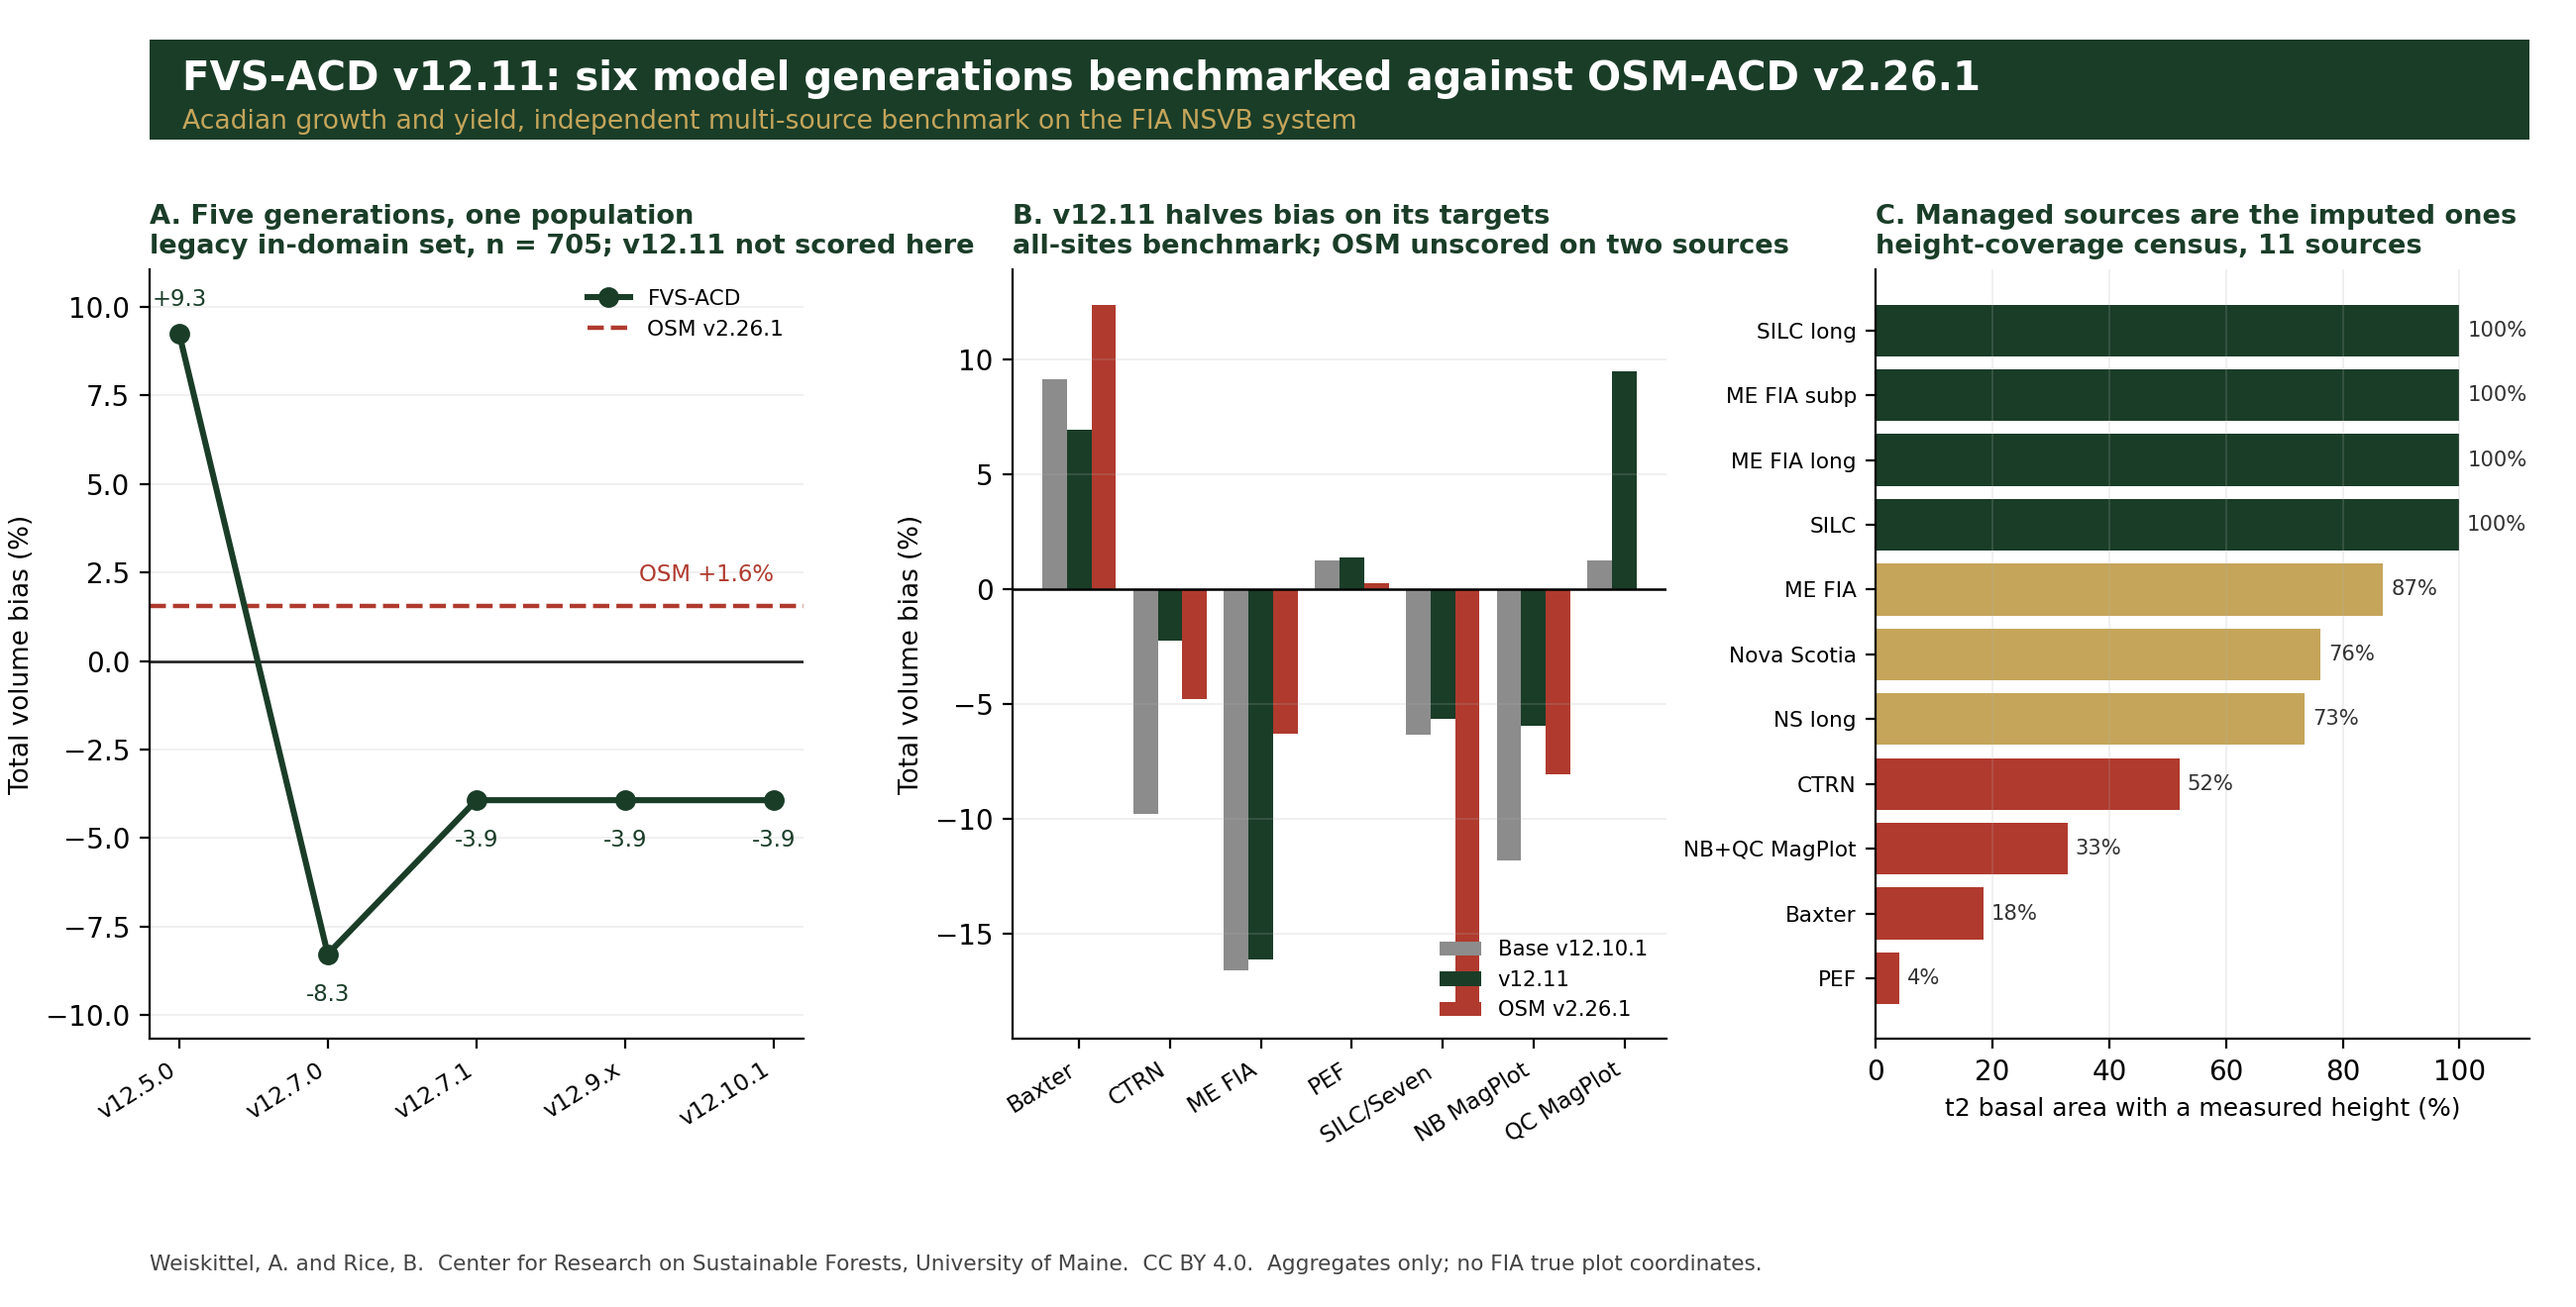
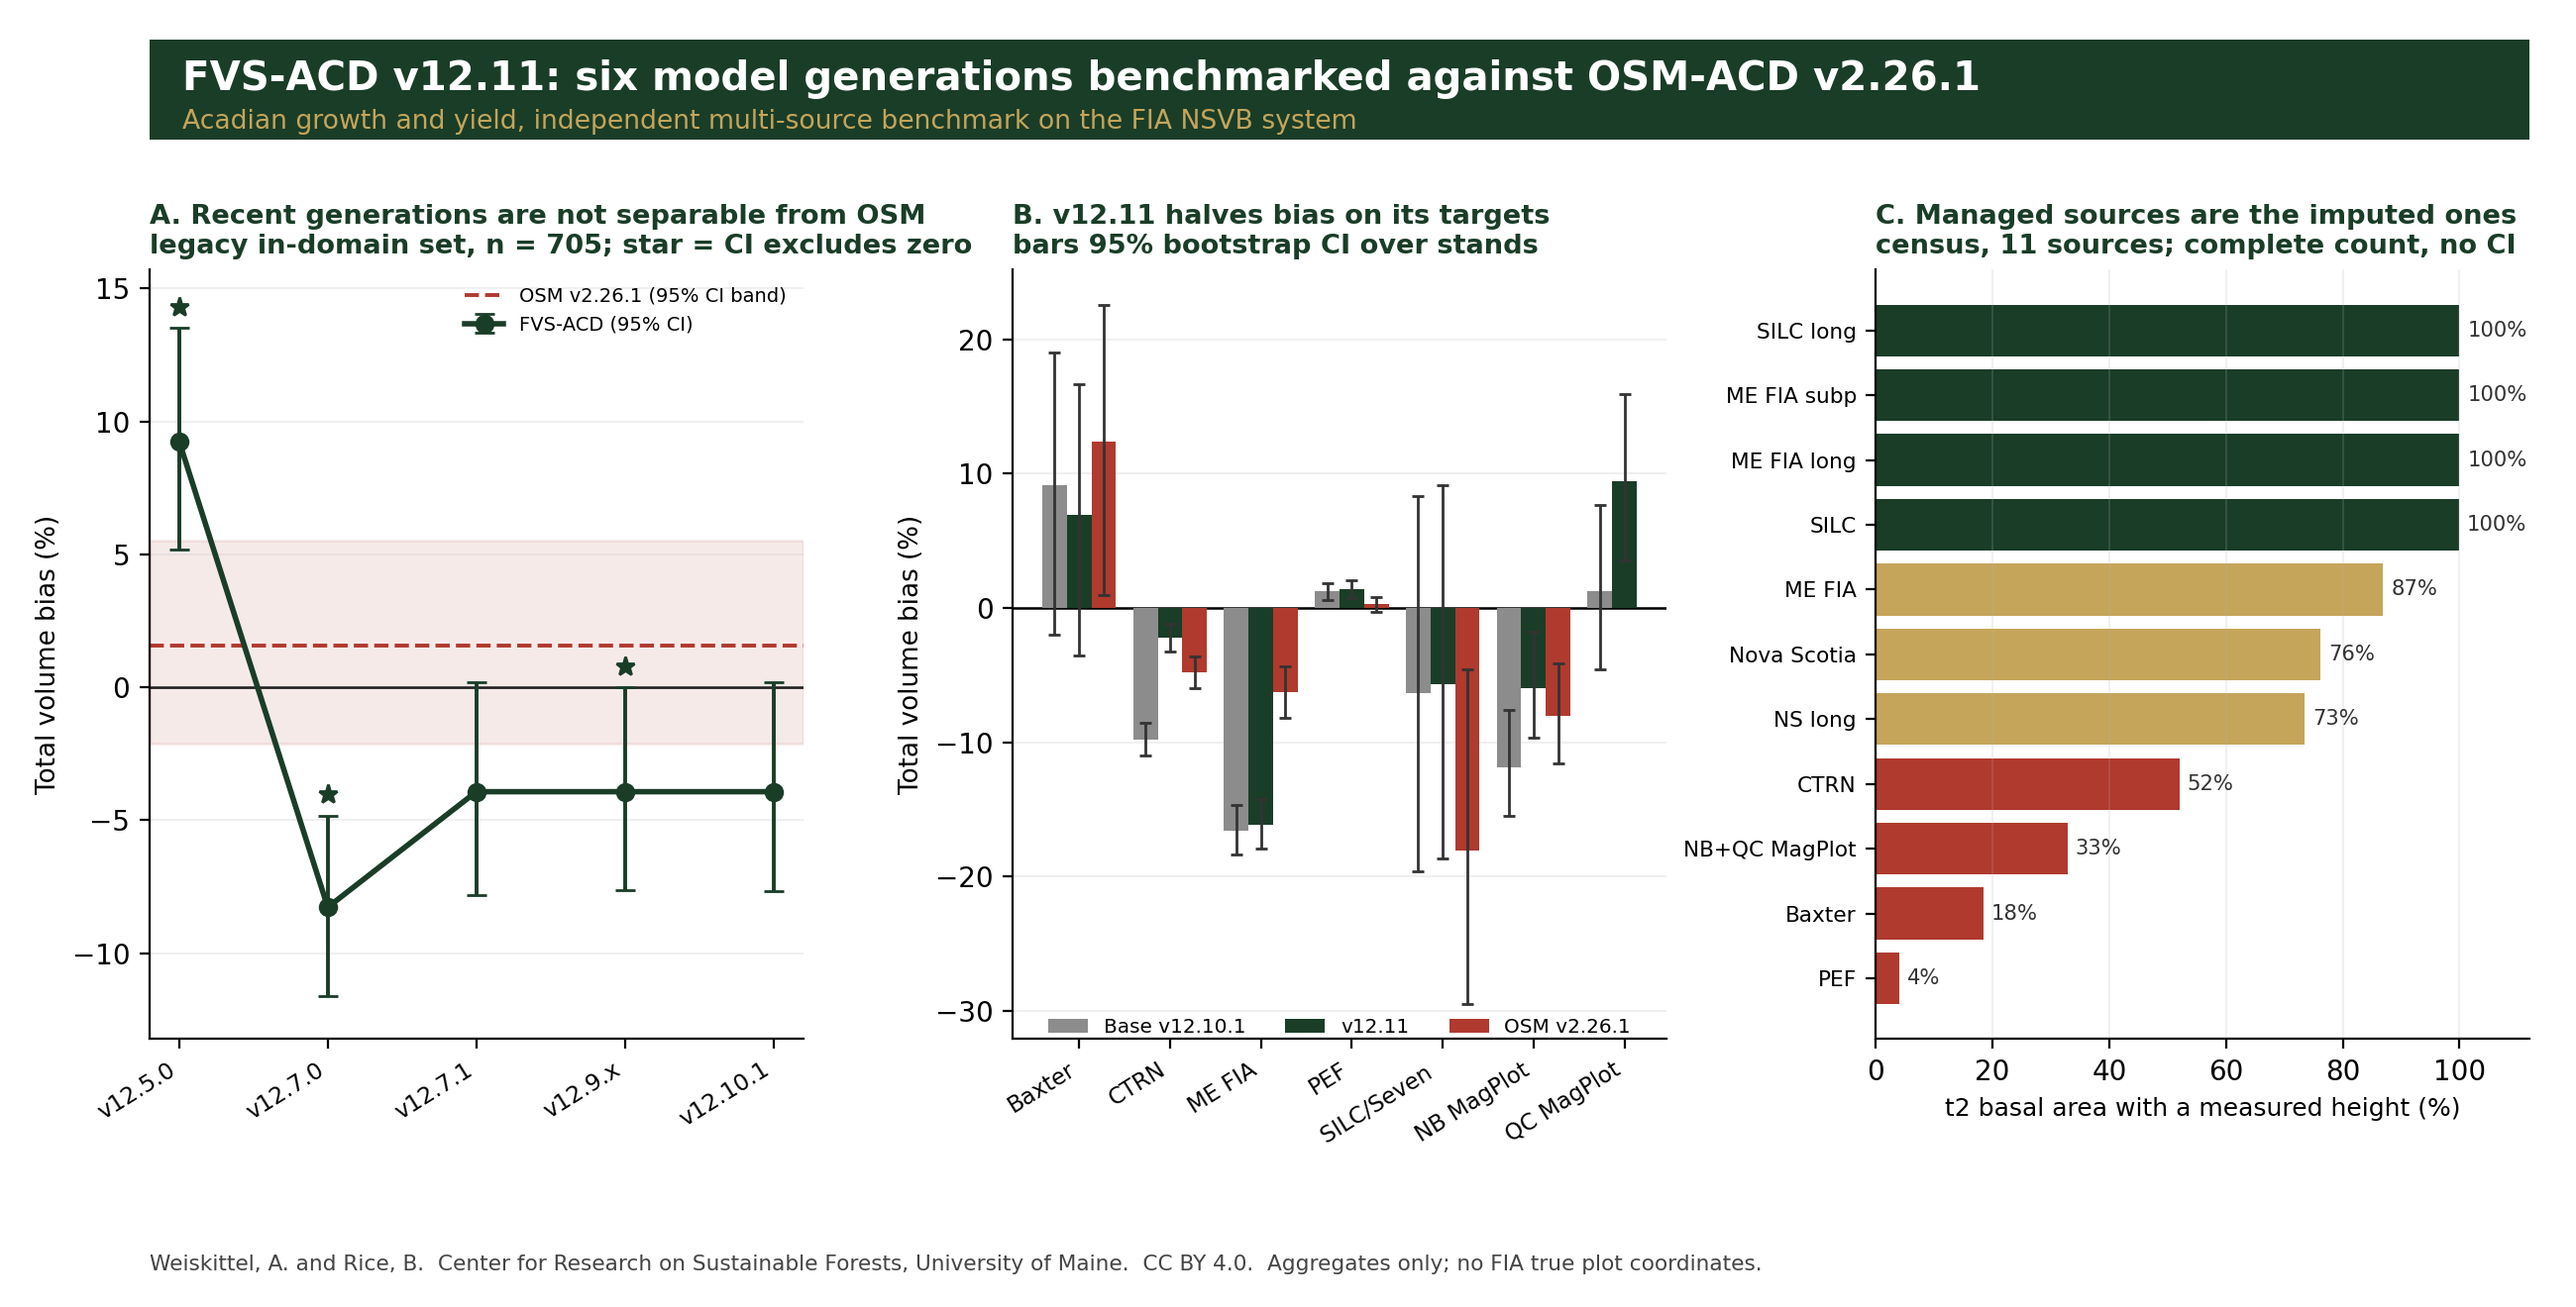
v12.11 benchmark: height-coverage census, rescores, and Zenodo deposit package

diff --git a/zenodo_v1211/build_graphical_abstract.py b/zenodo_v1211/build_graphical_abstract.py
@@ -7,6 +7,13 @@ comparison through v12.10.1, the all-sites benchmark carries v12.11, and the
 height-coverage census carries the integrity finding. Merging the first two
 would imply a single continuous series that was never scored as one.
 
+Uncertainty is shown where it exists and withheld where it does not. Panel A
+carries the 95 percent intervals already in the frozen scorecard. Panel B
+carries stand-level bootstrap intervals (allsites_bias_ci.csv); if that file is
+absent the panel degrades to bars and says so. Panel C is a complete
+enumeration of the staged tree lists, so it has no sampling uncertainty and
+gets no error bars; drawing them there would invent a quantity.
+
 Usage: build_graphical_abstract.py [--doi 10.5281/zenodo.XXXXXXX]
 """
 import argparse
@@ -55,22 +62,27 @@ order = ["v12.5.0", "v12.7.0", "v12.7.1", "v12.9.x", "v12.10.1"]
 vals = {x["model"]: float(x["bias_pct"]) for x in r}
 y = [vals[m] for m in order]
 osm = vals.get("OSM")
+lo = {x["model"]: float(x["bias_lo95"]) for x in r}
+hi = {x["model"]: float(x["bias_hi95"]) for x in r}
+ylo = [lo[m] for m in order]
+yhi = [hi[m] for m in order]
 ax.axhline(0, color="black", lw=0.9, zorder=1)
-ax.plot(range(len(order)), y, "-o", color=GREEN, lw=2.2, ms=6.5, zorder=3, label="FVS-ACD")
-ax.set_ylim(min(y) - 2.4, max(y) + 1.8)
 if osm is not None:
-    ax.axhline(osm, color=RED, lw=1.6, ls="--", zorder=2, label="OSM v2.26.1")
-    ax.text(len(order) - 1, osm + 0.55, "OSM %+.1f%%" % osm, color=RED,
-            fontsize=8.2, ha="right", va="bottom")
-for i, v in enumerate(y):
-    ax.annotate("%+.1f" % v, (i, v), textcoords="offset points",
-                xytext=(0, 10 if v >= 0 else -17), ha="center", fontsize=8.2, color=GREEN)
+    ax.axhspan(lo["OSM"], hi["OSM"], color=RED, alpha=0.10, zorder=0)
+    ax.axhline(osm, color=RED, lw=1.4, ls="--", zorder=2, label="OSM v2.26.1 (95% CI band)")
+ax.errorbar(range(len(order)), y, yerr=[np.array(y) - np.array(ylo), np.array(yhi) - np.array(y)],
+            fmt="-o", color=GREEN, lw=2.0, ms=6.0, capsize=3.5, elinewidth=1.4,
+            zorder=3, label="FVS-ACD (95% CI)")
+ax.set_ylim(min(ylo) - 1.6, max(yhi) + 2.2)
+for i, m in enumerate(order):
+    if lo[m] * hi[m] > 0:
+        ax.plot(i, yhi[i] + 0.8, marker="*", color=GREEN, ms=7, zorder=4)
 ax.set_xticks(range(len(order)))
 ax.set_xticklabels(order, rotation=32, ha="right", fontsize=8.4)
 ax.set_ylabel("Total volume bias (%)", fontsize=9.4)
-ax.set_title("A. Five generations, one population\nlegacy in-domain set, n = 705; v12.11 not scored here",
+ax.set_title("A. Recent generations are not separable from OSM\nlegacy in-domain set, n = 705; star = CI excludes zero",
              fontsize=9.8, loc="left", color=GREEN, fontweight="bold")
-ax.legend(fontsize=7.8, frameon=False, loc="upper right")
+ax.legend(fontsize=7.0, frameon=False, loc="upper right")
 ax.grid(axis="y", alpha=0.22, lw=0.6)
 for s in ("top", "right"):
     ax.spines[s].set_visible(False)
@@ -94,18 +106,62 @@ D = {}
 for x in r:
     D.setdefault(x["source"], {})[key.get(x["model"], x["model"])] = float(x["TOTVOL_bias_pct"])
 srcs = [s for s in srcs if "base" in D.get(s, {}) and "v1211" in D.get(s, {})]
+
+# Stand-level bootstrap intervals, if the Cardinal job has been run. The two
+# files spell three source names differently ("held-out" vs "held out", PEF vs
+# Penobscot Exp. Forest, SILC vs SILC/Seven Islands CFI), so join on a
+# normalized key rather than the raw string.
+def canon(name):
+    t = name.split("(")[0].strip().lower().replace("-", " ")
+    for k, v in (("baxter", "baxter"), ("ctrn", "ctrn"), ("maine fia", "mefia"),
+                 ("pef", "pef"), ("penobscot", "pef"), ("silc", "silc"),
+                 ("nb magplot", "nb"), ("qc magplot", "qc")):
+        if k in t:
+            return v
+    return t
+
+
+CI, has_ci = {}, False
+try:
+    for x in rows("allsites_bias_ci.csv"):
+        CI.setdefault(canon(x["source"]), {})[x["model"]] = (
+            float(x["bias_pct"]), float(x["bias_lo95"]), float(x["bias_hi95"]))
+    has_ci = True
+except (FileNotFoundError, KeyError):
+    pass
+
+
+def err(src, mdl):
+    """Asymmetric yerr for one bar, or nan where no interval was computed."""
+    v = CI.get(canon(src), {}).get(mdl)
+    if v is None:
+        return np.nan, np.nan, np.nan
+    est, lo, hi = v
+    return est, est - lo, hi - est
+
+
 idx = np.arange(len(srcs))
 w = 0.27
 ax.axhline(0, color="black", lw=0.9)
-ax.bar(idx - w, [D[s]["base"] for s in srcs], w, color=GREY, label="Base v12.10.1")
-ax.bar(idx, [D[s]["v1211"] for s in srcs], w, color=GREEN, label="v12.11")
-ax.bar(idx + w, [D[s].get("osm", np.nan) for s in srcs], w, color=RED, label="OSM v2.26.1")
+for off, mdl, col, lab in ((-w, "base", GREY, "Base v12.10.1"),
+                           (0.0, "v1211", GREEN, "v12.11"),
+                           (w, "osm", RED, "OSM v2.26.1")):
+    vals = [D[s].get(mdl, np.nan) for s in srcs]
+    ax.bar(idx + off, vals, w, color=col, label=lab, zorder=2)
+    if has_ci:
+        packed = [err(s, mdl) for s in srcs]
+        dn = np.array([p[1] for p in packed], dtype=float)
+        up = np.array([p[2] for p in packed], dtype=float)
+        ax.errorbar(idx + off, vals, yerr=[dn, up], fmt="none", ecolor="#333333",
+                    elinewidth=1.0, capsize=2.2, zorder=4)
 ax.set_xticks(idx)
 ax.set_xticklabels([shorten(s) for s in srcs], rotation=32, ha="right", fontsize=8.2)
 ax.set_ylabel("Total volume bias (%)", fontsize=9.4)
-ax.set_title("B. v12.11 halves bias on its targets\nall-sites benchmark; OSM unscored on two sources",
+ax.set_title("B. v12.11 halves bias on its targets\n" +
+             ("bars 95% bootstrap CI over stands" if has_ci else "no intervals computed"),
              fontsize=9.8, loc="left", color=GREEN, fontweight="bold")
-ax.legend(fontsize=7.6, frameon=False, ncol=1, loc="lower right")
+ax.legend(fontsize=7.2, frameon=False, ncol=3, loc="lower center",
+          bbox_to_anchor=(0.5, -0.02))
 ax.grid(axis="y", alpha=0.22, lw=0.6)
 for s in ("top", "right"):
     ax.spines[s].set_visible(False)
@@ -127,7 +183,7 @@ for i, c in enumerate(cov):
     ax.text(c + 1.4, i, "%.0f%%" % c, va="center", fontsize=7.6, color="#333333")
 ax.set_xlim(0, 112)
 ax.set_xlabel("t2 basal area with a measured height (%)", fontsize=9.0)
-ax.set_title("C. Managed sources are the imputed ones\nheight-coverage census, 11 sources",
+ax.set_title("C. Managed sources are the imputed ones\ncensus, 11 sources; complete count, no CI",
              fontsize=9.8, loc="left", color=GREEN, fontweight="bold")
 ax.grid(axis="x", alpha=0.22, lw=0.6)
 for s in ("top", "right"):

diff --git a/zenodo_v1211/check_deposit.py b/zenodo_v1211/check_deposit.py
@@ -204,6 +204,7 @@ PRODUCERS = {
     "bench_ns_long_scorecard.csv": "bench_ns_long_scorecard.R",
     "bakuzis_relations.csv": "bakuzis_allmodels.R",
     "bakuzis_longterm.csv": "bakuzis_allmodels.R",
+    "allsites_bias_ci.csv": "boot_ci_allsites.R",
 }
 deposited = {os.path.basename(p) for p in paths}
 g5 = []

diff --git a/zenodo_v1211/README.md b/zenodo_v1211/README.md
@@ -67,6 +67,28 @@ so most of that flag is imputation on the most hardwood-heavy source rather than
 over-correcting. Across every source the pattern is the same: the height treatment moves the models together and
 leaves their ordering intact, so the comparisons are durable even where the levels are not.
 
+## Uncertainty
+
+Uncertainty is shown where it exists and withheld where it does not, and the three panels of the graphical
+abstract differ deliberately on this point.
+
+Panel A carries the 95% intervals already present in `scorecard_five_v1210_frozen.csv`. They change the reading.
+Only v12.5.0 (+9.25%, CI 5.18 to 13.51) and v12.7.0 (-8.28%, CI -11.63 to -4.82) have intervals excluding zero.
+The three most recent generations and OSM all overlap zero and all overlap each other, so on pooled total volume
+over the legacy in-domain set the apparent ordering among v12.7.1, v12.9.x, v12.10.1 and OSM is not
+statistically separable. A star marks each interval that excludes zero.
+
+Panel B carries 95% bootstrap intervals from `allsites_bias_ci.csv`, taken by resampling stands with
+replacement, 4,000 replicates, seed 20260804. Bias is a ratio of means, so a normal approximation would be
+wrong. Several readings tighten or loosen: CFRU CTRN separates cleanly, with v12.11 at -2.24% (CI -3.27 to
+-1.21) not overlapping OSM at -4.81% (CI -5.98 to -3.62), while Baxter's small sample (n = 91) leaves base and
+v12.11 both overlapping zero and NB MagPlot leaves v12.11 and OSM overlapping each other. SILC at n = 73 is the
+widest cell in the benchmark. Read the intervals before quoting any single-source win.
+
+Panel C has no error bars, and that is deliberate. The coverage census is a complete enumeration of the staged
+tree lists, not a sample from a population, so it carries no sampling uncertainty. Drawing intervals there would
+invent a quantity that does not exist.
+
 ## Files
 
 `00_FVS-ACD_v1211_graphical_abstract.png` is the lead visual and the graphical abstract.
@@ -78,6 +100,8 @@ master scorecard by determinant, the overall ranking, the Bakuzis biological-rea
 and the two Nova Scotia scorecards.
 
 Integrity: the coverage census, the two rescore tables, and the Baxter curve validation.
+
+Uncertainty: `allsites_bias_ci.csv`, the bootstrap intervals behind panel B, produced by `boot_ci_allsites.R`.
 
 Scripts: `height_coverage_census.R` produces the census and rescore tables; `build_graphical_abstract.py`
 produces the lead figure. `data_dictionary.csv` describes the columns.

diff --git a/zenodo_v1211/RUNBOOK.md b/zenodo_v1211/RUNBOOK.md
@@ -30,17 +30,22 @@ publish from the edit page, or re-run with `--publish` appended.
 Publishing a NEW record is NOT idempotent. Re-running after a successful publish creates a second record
 rather than a no-op.
 
-## Gate results, run 4 August 2026
+## Gate results, re-run 4 August 2026 after the uncertainty pass
 
-All six gates pass. 33 files staged, 0 missing.
+All six gates pass. 35 files staged, 0 missing. The count rose from 33 because the graphical abstract was
+rebuilt to carry uncertainty, which added `allsites_bias_ci.csv` and its producer `boot_ci_allsites.R`.
+
+Note the required order was followed: the figure was re-rendered FIRST, then the gates were run, so the
+checksums in `CHECKSUMS.sha256` describe the current bytes. Regenerating checksums before a re-render is the
+silent failure this sequence exists to prevent.
 
 | Gate | Result |
 |---|---|
 | 1 lead file | pass. `00_FVS-ACD_v1211_graphical_abstract.png` is first in the manifest, sorts first, and is named in `default_preview` |
 | 2 source freshness | pass. 2 rendered docx/md pairs, 0 stale |
-| 3 restricted data | pass. 30 files, 759,833 characters scanned, 0 hard hits, 0 waived |
-| 4 checksums | 33 SHA-256 written to `CHECKSUMS.sha256` AFTER the last render |
-| 5 code reproduces data | pass. 18 CSVs, 0 without a deposited producer |
+| 3 restricted data | pass. 32 files, 765,585 characters scanned, 0 hard hits, 0 waived |
+| 4 checksums | 35 SHA-256 written to `CHECKSUMS.sha256` AFTER the last render |
+| 5 code reproduces data | pass. 19 CSVs, 0 without a deposited producer |
 | 6 metadata | pass |
 
 ### Gate 3 detail, the restricted-data audit
